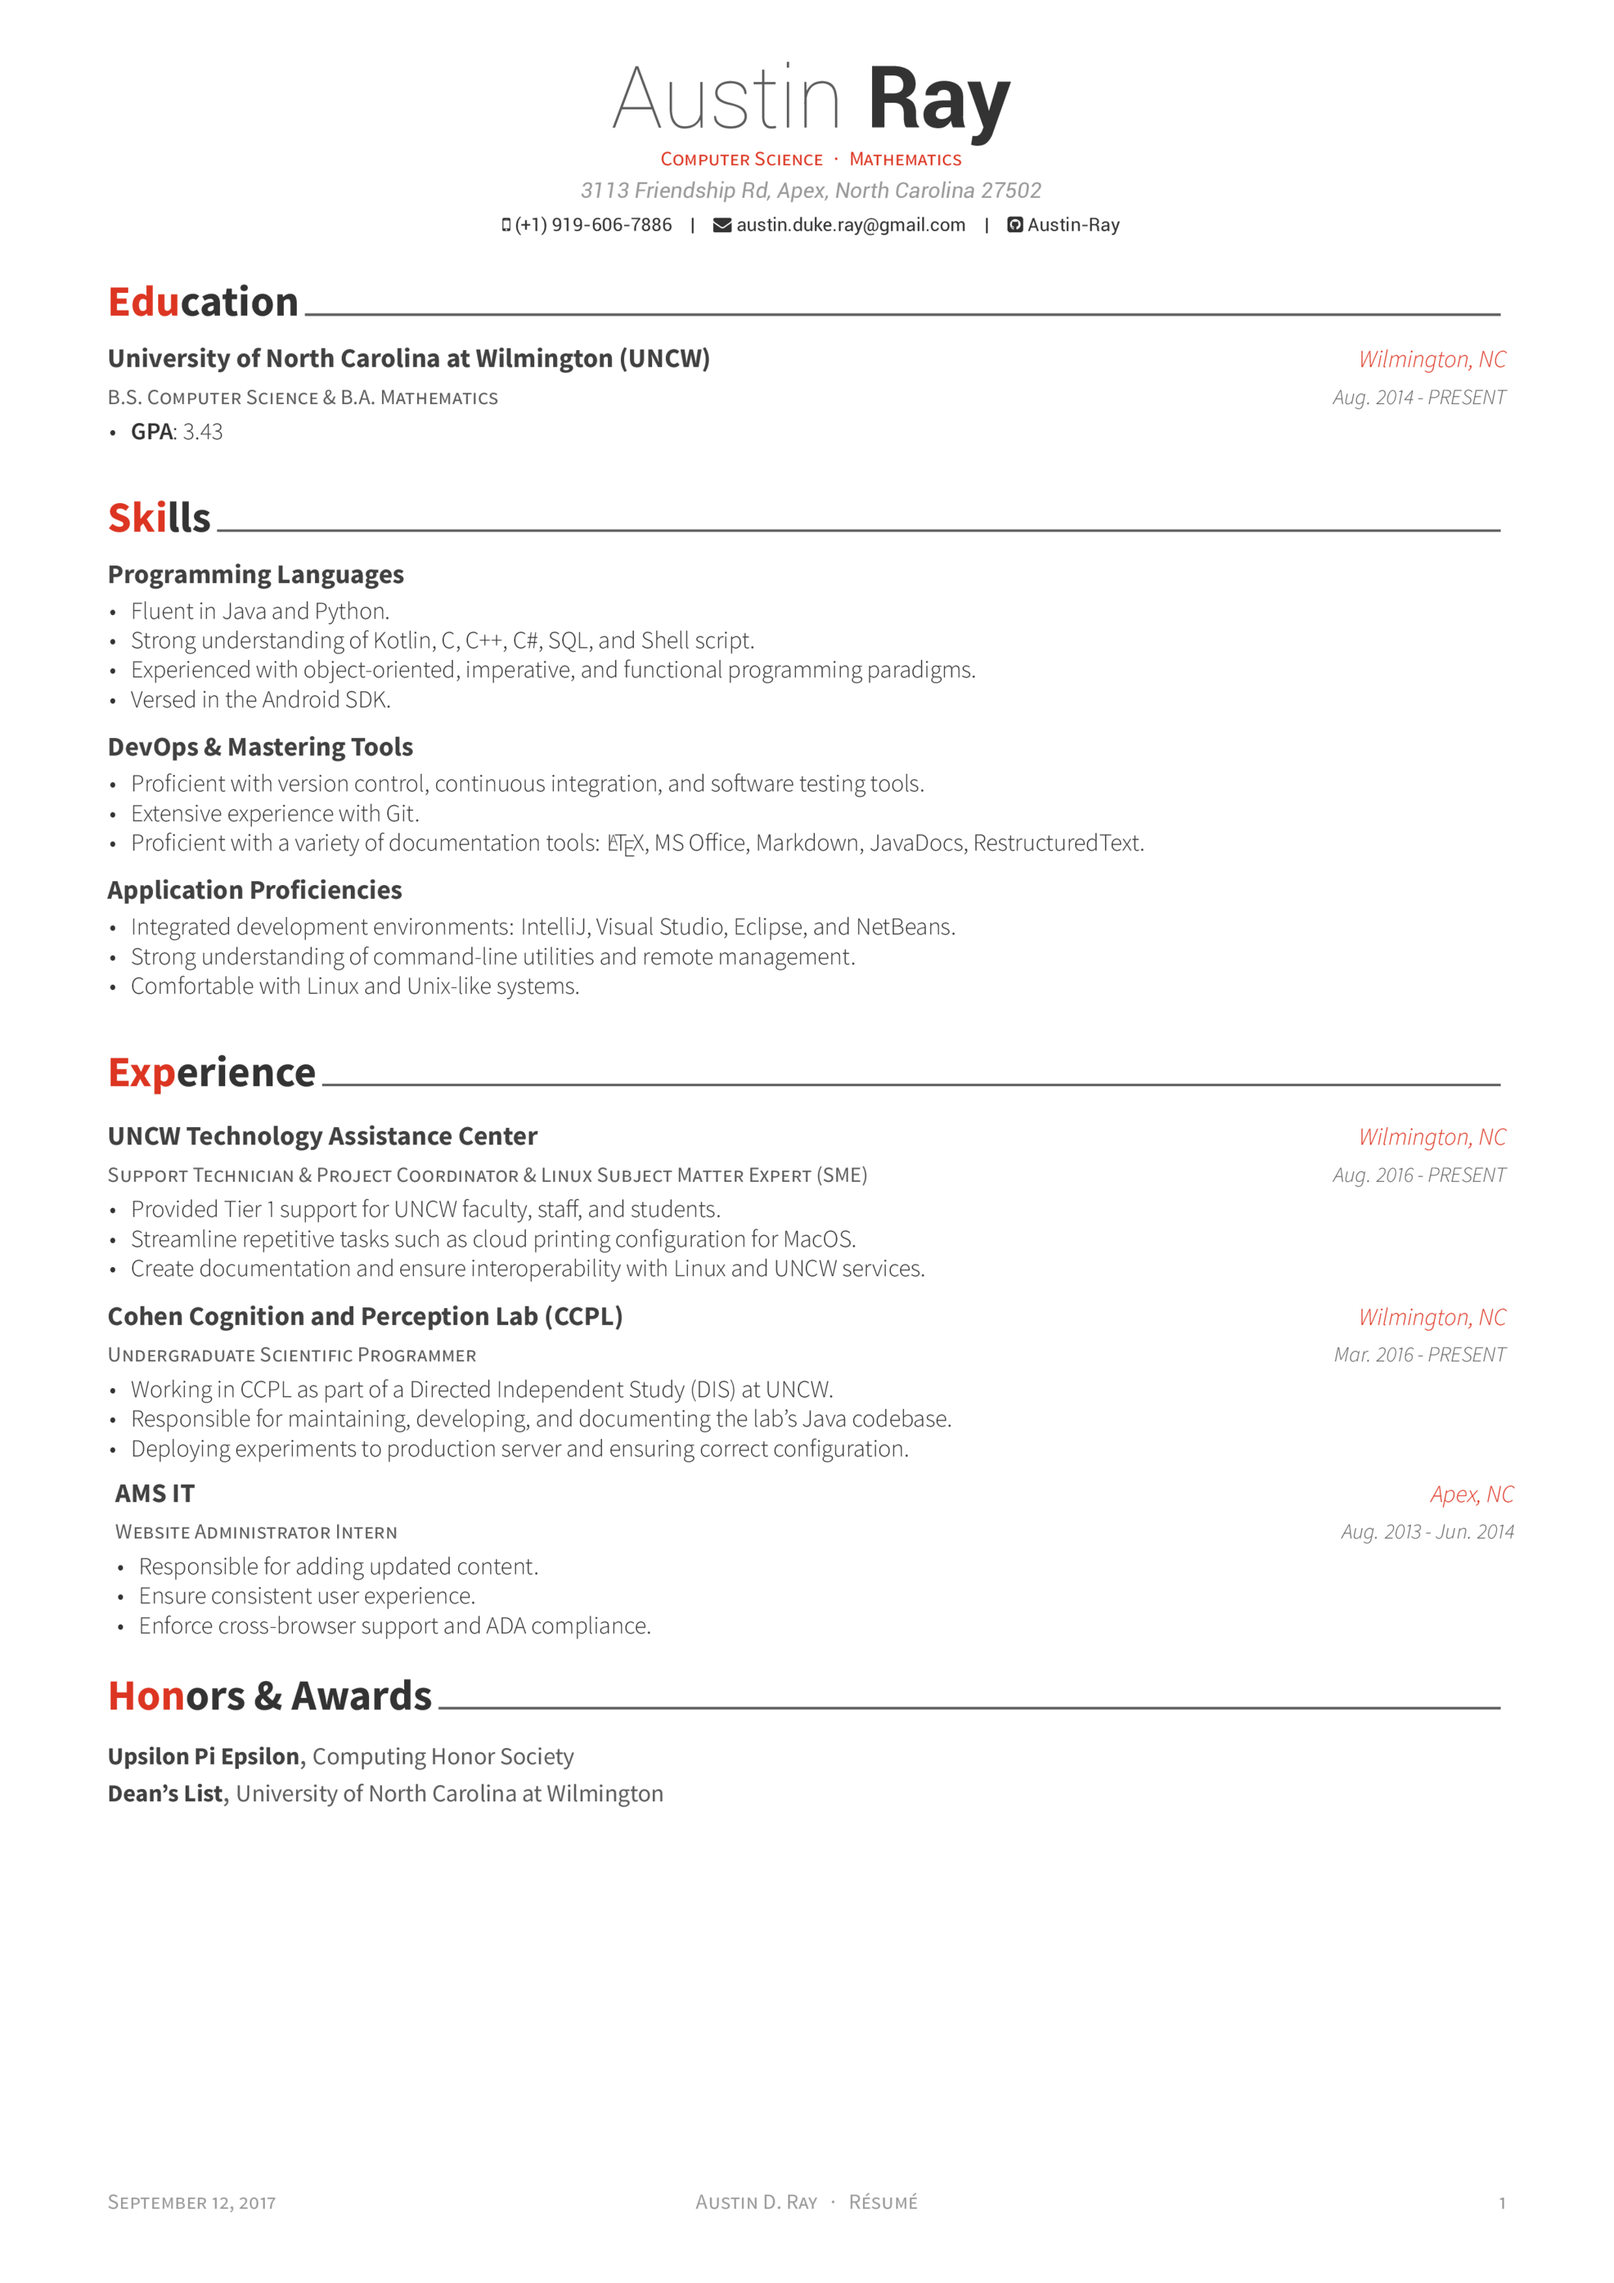
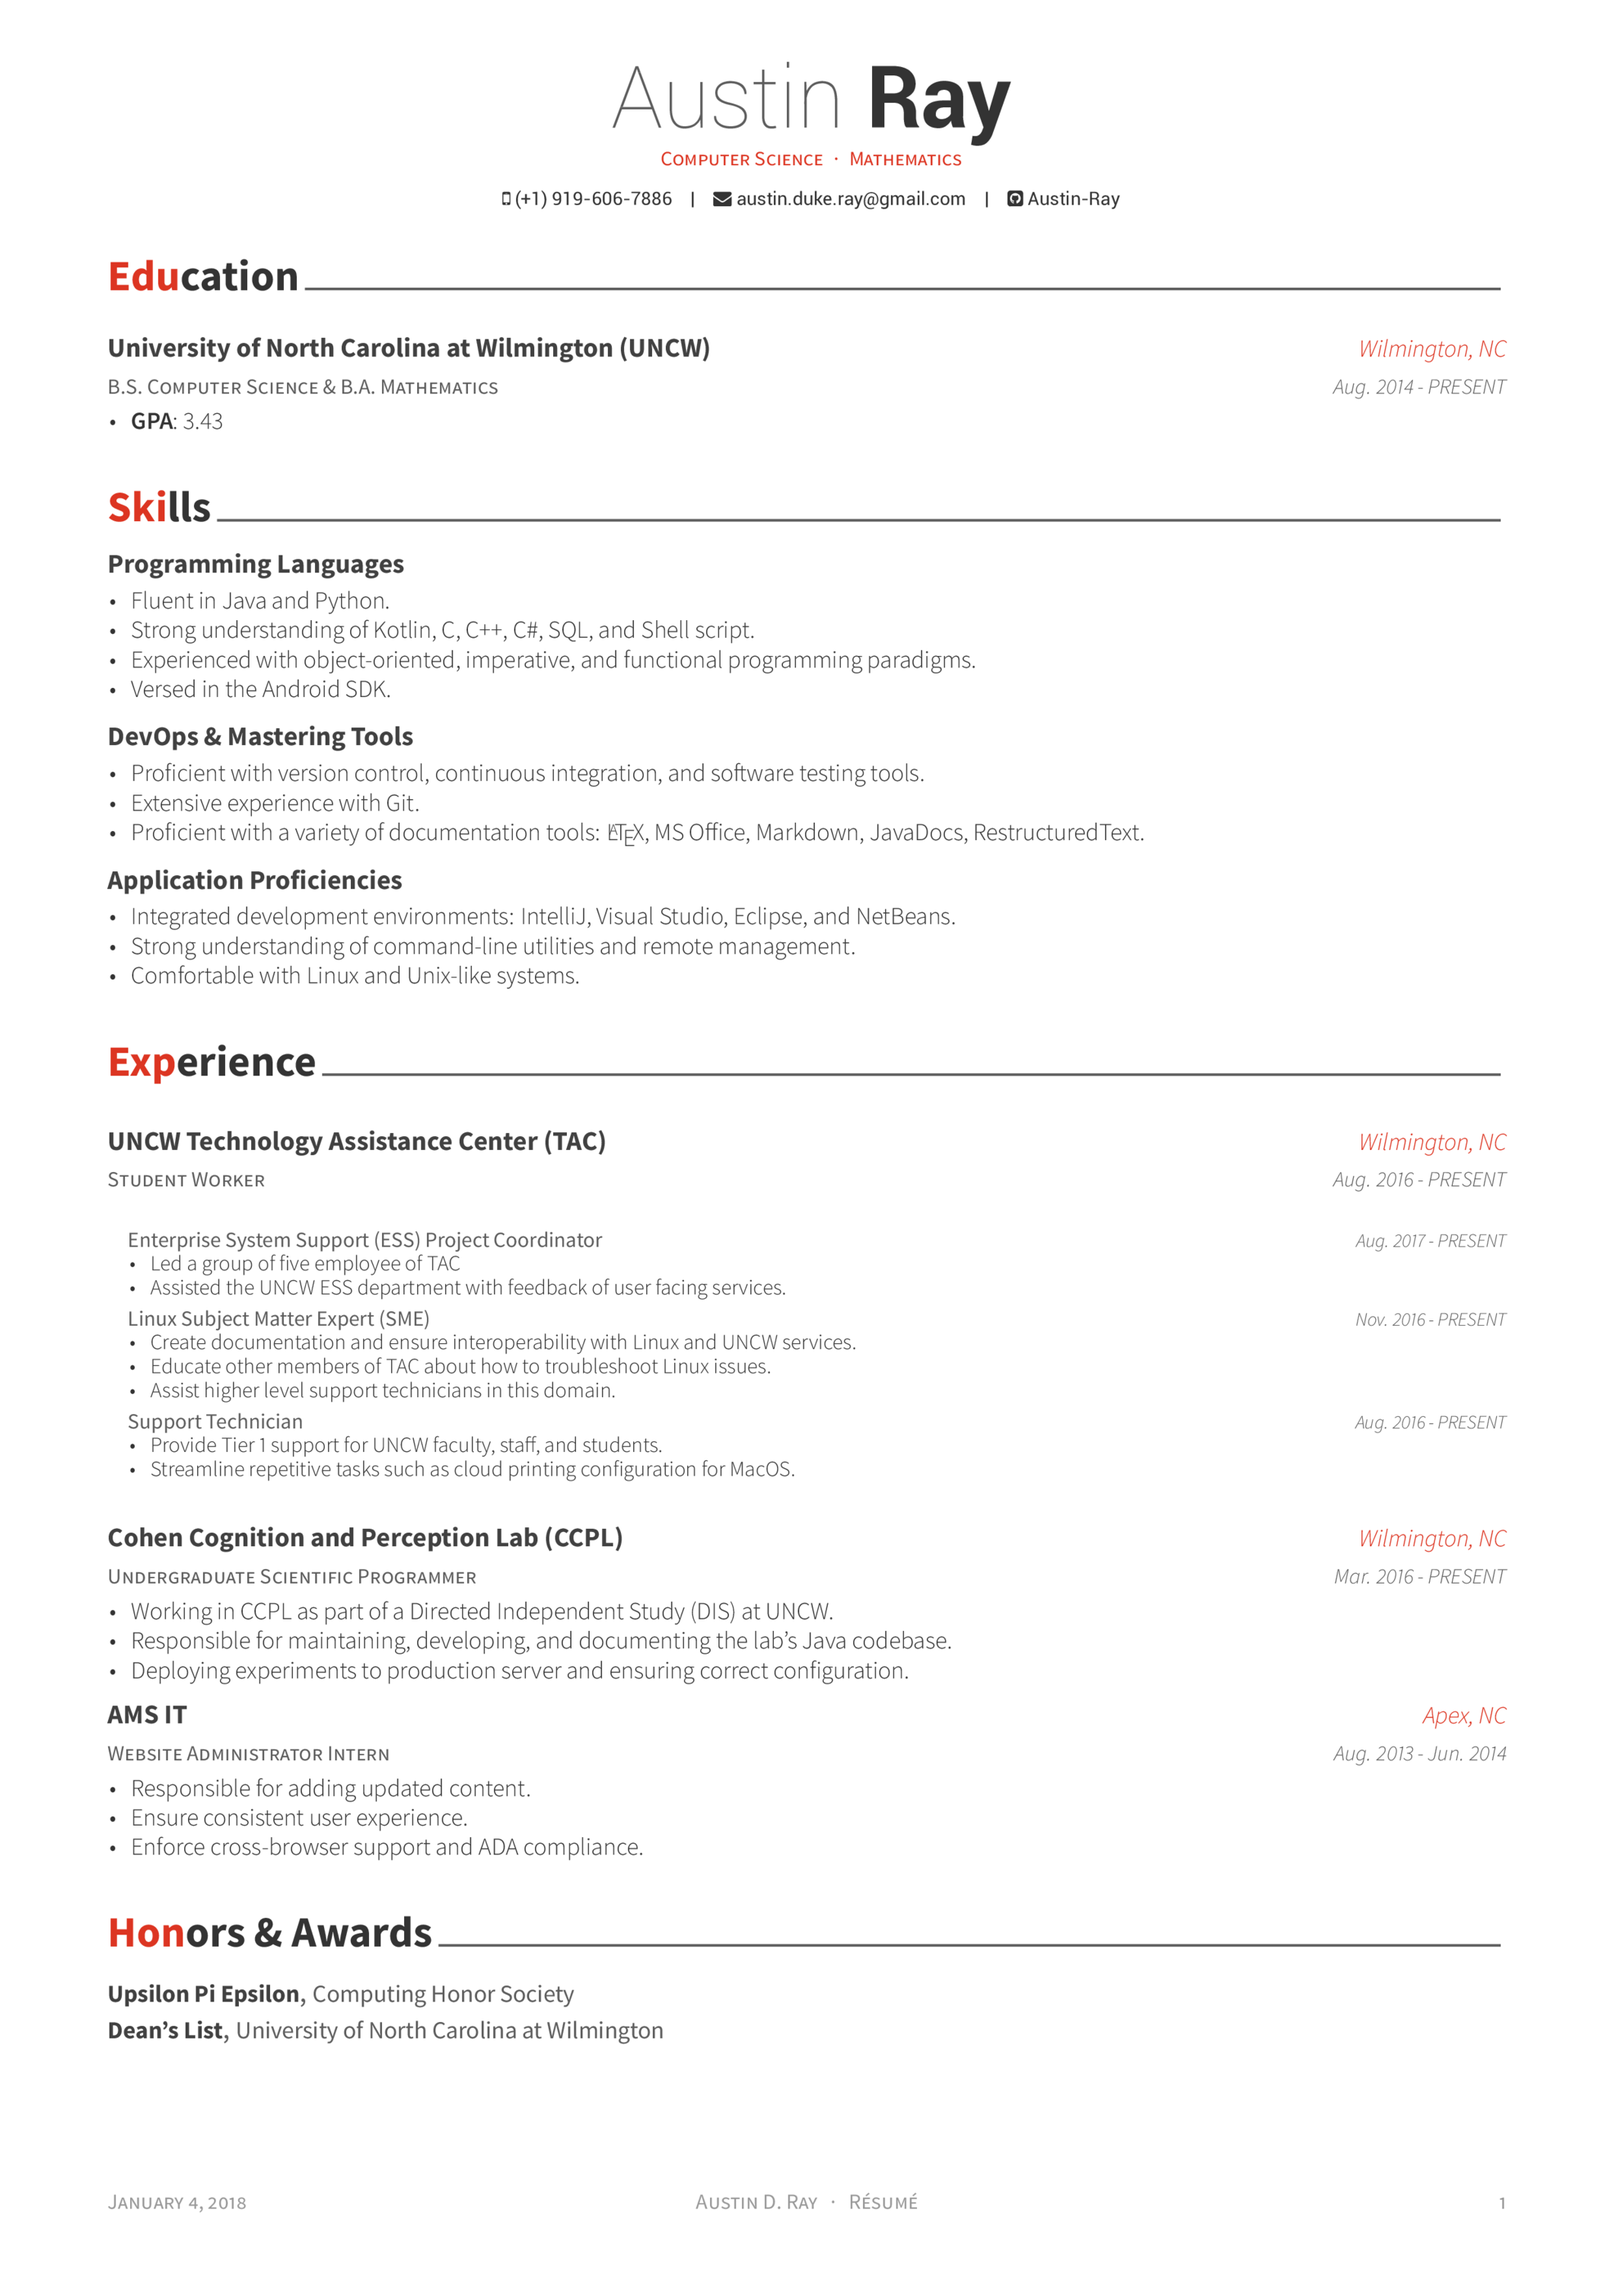
Update resume content

diff --git a/sections/experience.tex b/sections/experience.tex
@@ -11,16 +11,35 @@
 
 %---------------------------------------------------------
   \cventry
-    {Support Technician \& Project Coordinator \& Linux Subject Matter Expert (SME)} % Job title
-    {UNCW Technology Assistance Center} % Organization
+    {Student Worker}
+    %{Support Technician \& Project Coordinator \& Linux Subject Matter Expert (SME)} % Job title
+    {UNCW Technology Assistance Center (TAC)} % Organization
     {Wilmington, NC} % Location
     {Aug. 2016 - PRESENT} % Date(s)
     {
-      \begin{cvitems} % Description(s) of tasks/responsibilities
-        \item {Provided Tier 1 support for UNCW faculty, staff, and students.}
-        \item {Streamline repetitive tasks such as cloud printing configuration for MacOS.}
-        \item {Create documentation and ensure interoperability with Linux and UNCW services.}
-      \end{cvitems}
+      \begin{cvsubentries}
+        \cvsubentry{}{Enterprise System Support (ESS) Project Coordinator}{Aug. 2017 - PRESENT}
+        {
+          \begin{cvsubitems}
+            \item {Led a group of five employee of TAC}
+            \item {Assisted the UNCW ESS department with feedback of user facing services.}
+          \end{cvsubitems}
+        }
+        \cvsubentry{}{Linux Subject Matter Expert (SME)}{Nov. 2016 - PRESENT}{
+          \begin{cvsubitems}
+            \item {Create documentation and ensure interoperability with Linux and UNCW services.}
+            \item {Educate other members of TAC about how to troubleshoot Linux issues.}
+            \item {Assist higher level support technicians in this domain.}
+          \end{cvsubitems}
+        }
+        \cvsubentry{}{Support Technician}{Aug. 2016 - PRESENT}
+        {
+          \begin{cvsubitems}
+            \item {Provide Tier 1 support for UNCW faculty, staff, and students.}
+            \item {Streamline repetitive tasks such as cloud printing configuration for MacOS.}
+          \end{cvsubitems}
+        }
+      \end{cvsubentries}
     }
 
 %---------------------------------------------------------

diff --git a/resume.tex b/resume.tex
@@ -55,7 +55,7 @@
 % \photo[rectangle,edge,right]{./examples/profile}
 \name{Austin}{Ray}
 \position{Computer Science{\enskip\cdotp\enskip}Mathematics}
-\address{3113 Friendship Rd, Apex, North Carolina 27502}
+%\address{3113 Friendship Rd, Apex, North Carolina 27502}
 
 \mobile{(+1) 919-606-7886}
 \email{austin.duke.ray@gmail.com}
